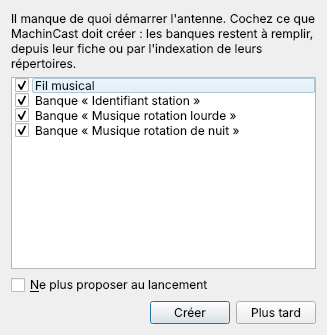
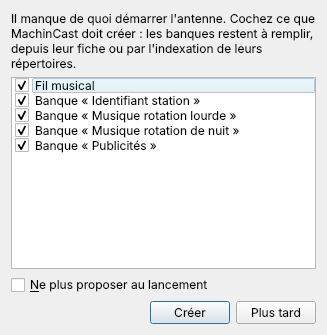
feat(interface): réglages des banques suggérées, et trois banques d'annonces
Les rotations lourde, normale et rare durent 15 minutes au plus,
« Identifiant station » 2 minutes. « Partenariats », « Publicités » et
« Bande-annonce émissions » s'ajoutent aux suggestions : 2 minutes au
plus, crossfades imposés à 0 seconde à leurs sonores.

https://github.com/dascritch/machincast/issues/231
Améliorations des éléments proposés à la création à la première ouverture

Claude-Session: https://claude.ai/code/session_01KaPegkCQoT3k3oMgjXGsiv

Changed region(s): [[0.0306, 0.4179, 0.4893, 0.4478]]

diff --git a/src/machincast/interface/suggestions.py b/src/machincast/interface/suggestions.py
@@ -6,15 +6,19 @@ majuscules) et, sur une vraie sortie, le périphérique de l'antenne. S'il manqu
 (FenetreSuggestions, par machincast.interface.dialogues.suggerer) le propose, chaque élément coché par défaut.
 
 - « Créer » (creer) crée ce qui est coché : le fil musical, permanent, comme le fil musical garanti
-  (machincast.interface.fil_musical) ; les banques, aléatoires et sans répertoire, « Identifiant station » marquée
-  « ne pas répéter ». Un fil musical encore vide, créé ou déjà là, reçoit la rotation type (ROTATION), avec les banques
-  qui existent. Le périphérique d'antenne choisi s'enregistre dans audio.peripherique (enregistrer).
+  (machincast.interface.fil_musical) ; les banques, aléatoires et sans répertoire, chacune avec ses réglages
+  (REGLAGES) : « Identifiant station » marquée « ne pas répéter », les musiques de 15 minutes au plus, l'habillage
+  et les annonces de 2 minutes au plus, ces dernières enchaînées sans crossfade, imposé à 0 seconde à leurs sonores
+  (https://github.com/dascritch/machincast/issues/231). Un fil musical encore vide, créé ou déjà là, reçoit la
+  rotation type (ROTATION), avec les banques qui existent. Le périphérique d'antenne choisi s'enregistre dans
+  audio.peripherique (enregistrer).
 - « Plus tard » ne crée rien : la fenêtre revient au lancement suivant.
 - « Ne plus proposer au lancement » écrit interface.suggestions = false dans le fichier de configuration
   (enregistrer), qui garde ses commentaires.
 """
 
 from dataclasses import dataclass
+from datetime import timedelta
 from pathlib import Path
 
 import psycopg
@@ -31,16 +35,34 @@ from machincast.interface.ui.suggestions import Ui_FenetreSuggestions
 
 FIL_MUSICAL = "Fil musical"
 """La ligne du fil musical dans la fenêtre."""
-BANQUES = (
-	"Identifiant station",
-	"Musique rotation lourde",
-	"Musique rotation normale",
-	"Musique rotation rare",
-	"Musique rotation de nuit",
-)
-"""Les banques suggérées, dans l'ordre où la fenêtre les propose."""
-NE_PAS_REPETER = frozenset({"Identifiant station"})
-"""Les banques créées marquées « ne pas répéter » (https://github.com/dascritch/machincast/issues/63)."""
+
+
+@dataclass(frozen=True)
+class Reglage:
+	"""Ce qu'une banque suggérée reçoit à sa création."""
+
+	ne_pas_repeter: bool = False
+	"""https://github.com/dascritch/machincast/issues/63"""
+	duree_max: timedelta | None = None
+	sans_crossfade: bool = False
+	"""Crossfades de début et de fin imposés à 0 seconde à tous ses sonores : ils s'enchaînent sans se mêler."""
+
+
+MUSIQUE = Reglage(duree_max=timedelta(minutes=15))
+ANNONCE = Reglage(duree_max=timedelta(minutes=2), sans_crossfade=True)
+REGLAGES = {
+	"Identifiant station": Reglage(ne_pas_repeter=True, duree_max=timedelta(minutes=2)),
+	"Musique rotation lourde": MUSIQUE,
+	"Musique rotation normale": MUSIQUE,
+	"Musique rotation rare": MUSIQUE,
+	"Musique rotation de nuit": Reglage(),
+	"Partenariats": ANNONCE,
+	"Publicités": ANNONCE,
+	"Bande-annonce émissions": ANNONCE,
+}
+"""Les banques suggérées, dans l'ordre où la fenêtre les propose, et leurs réglages
+(https://github.com/dascritch/machincast/issues/231)."""
+BANQUES = tuple(REGLAGES)
 ROTATION = (
 	"Identifiant station",
 	"Musique rotation lourde",
@@ -114,9 +136,15 @@ def creer(connexion: psycopg.Connection[TupleRow], reponse: Reponse) -> str | No
 				crees.append(f"le fil musical « {nom} »")
 		nouvelles = []
 		for banque in reponse.banques:
+			reglage = REGLAGES[banque]
+			regle = "sonore"
+			if reglage.sans_crossfade:
+				regle = "impose"
 			connexion.execute(
-				"INSERT INTO banques (nom_interne, mode, ne_pas_repeter) VALUES (%s, 'aleatoire', %s)",
-				(banque, banque in NE_PAS_REPETER),
+				"INSERT INTO banques (nom_interne, mode, ne_pas_repeter, duree_max, crossfade_debut_regle,"
+				" crossfade_debut, crossfade_fin_regle, crossfade_fin)"
+				" VALUES (%s, 'aleatoire', %s, %s, %s, '0 s', %s, '0 s')",
+				(banque, reglage.ne_pas_repeter, reglage.duree_max, regle, regle),
 			)
 			nouvelles.append(f"« {banque} »")
 		if len(nouvelles) == 1:

diff --git a/tests/test_suggestions.py b/tests/test_suggestions.py
@@ -6,6 +6,7 @@ s'ouvre ici, hors de l'écran du poste.
 
 import re
 from collections.abc import Iterator
+from datetime import timedelta
 
 import pytest
 import tomlkit
@@ -141,14 +142,45 @@ def fils(base_vide: Connexion, noms: str) -> None:
 	assert [str(nom) for (nom,) in lignes] == NOM.findall(noms)
 
 
+def _crossfade(regle: str, duree: timedelta) -> str:
+	if regle == "sonore":
+		return "des sonores"
+	return f"{REGLES[regle]}, {duree.total_seconds():g} s"
+
+
+REGLES = {"a_defaut": "à défaut", "impose": "imposé"}
+
+
 @then("les banques en base sont :")
 def banques_en_base(base_vide: Connexion, datatable: list[list[str]]) -> None:
 	_entete, *lignes = datatable
-	lues = base_vide.execute(
-		'SELECT nom_interne, mode::text, ne_pas_repeter FROM banques ORDER BY nom_interne COLLATE "C"'
-	).fetchall()
-	attendues = [(nom.strip(), mode.strip(), repeter.strip() == "oui") for nom, mode, repeter in lignes]
+	lues = []
+	for nom, mode, repeter, maximum, debut_regle, debut, fin_regle, fin in base_vide.execute(
+		"SELECT nom_interne, mode::text, ne_pas_repeter, duree_max, crossfade_debut_regle::text, crossfade_debut,"
+		' crossfade_fin_regle::text, crossfade_fin FROM banques ORDER BY nom_interne COLLATE "C"'
+	).fetchall():
+		repetition = "non"
+		if repeter:
+			repetition = "oui"
+		lues.append(
+			(
+				str(nom),
+				str(mode),
+				repetition,
+				str((maximum) or ("")),
+				_crossfade(str(debut_regle), debut),
+				_crossfade(str(fin_regle), fin),
+			)
+		)
+	attendues = [tuple(valeur.strip() for valeur in ligne) for ligne in lignes]
 	assert lues == attendues, lues
+
+
+@then(parsers.parse("la banque « {nom} » en base a pour durée maximale « {maximum} », sans durée minimale"))
+def duree_maximale(base_vide: Connexion, nom: str, maximum: str) -> None:
+	ligne = base_vide.execute("SELECT duree_min, duree_max FROM banques WHERE nom_interne = %s", (nom,)).fetchone()
+	assert ligne is not None
+	assert (ligne[0], str(ligne[1])) == (None, maximum)
 
 
 @then(parsers.parse("le fichier de configuration contient la ligne « {ligne} »"))

diff --git a/tests/captures.py b/tests/captures.py
@@ -650,9 +650,8 @@ def produire(repertoire: Path) -> dict[str, Path]:
 		frises = (fenetre.accueil.frise_en_cours, fenetre.accueil.frise_prochain)
 		attendre(lambda: all((frise.forme is not None) and (frise.forme.finie) for frise in frises))
 		prendre("accueil", fenetre)
-		suggestions = FenetreSuggestions(
-			Manques(True, ("Identifiant station", "Musique rotation lourde", "Musique rotation de nuit")), fenetre
-		)
+		manques = ("Identifiant station", "Musique rotation lourde", "Musique rotation de nuit", "Publicités")
+		suggestions = FenetreSuggestions(Manques(True, manques), fenetre)
 		suggestions.show()
 		prendre("pour-bien-demarrer", suggestions)
 		suggestions.close()

diff --git a/doc/spec.md b/doc/spec.md
@@ -790,9 +790,9 @@ Mise en œuvre ([#39](https://github.com/dascritch/machincast/issues/39), `machi
 
 Suggestions au lancement ([#119](https://github.com/dascritch/machincast/issues/119), `machincast.interface.suggestions`, `FenetrePrincipale.proposer_au_lancement`, appelé par `Machin_interface` une fois la fenêtre montrée) :
 
-- **Quand** : au lancement, si `interface.suggestions` est vrai (par défaut) et qu'il manque un événement de priorité fil musical, l'une des banques « Identifiant station », « Musique rotation lourde », « Musique rotation normale », « Musique rotation rare », « Musique rotation de nuit » (nom interne, sans tenir compte des majuscules), ou, sur une sortie autre que `factice`, le périphérique de l'antenne (`audio.peripherique`). Elles remplacent alors la création automatique du fil musical au lancement, qui reste quand elles sont éteintes ; la garantie après la suppression ou l'enregistrement d'un événement ne change pas.
+- **Quand** : au lancement, si `interface.suggestions` est vrai (par défaut) et qu'il manque un événement de priorité fil musical, l'une des banques « Identifiant station », « Musique rotation lourde », « Musique rotation normale », « Musique rotation rare », « Musique rotation de nuit », « Partenariats », « Publicités », « Bande-annonce émissions » (nom interne, sans tenir compte des majuscules), ou, sur une sortie autre que `factice`, le périphérique de l'antenne (`audio.peripherique`). Elles remplacent alors la création automatique du fil musical au lancement, qui reste quand elles sont éteintes ; la garantie après la suppression ou l'enregistrement d'un événement ne change pas.
 - **Fenêtre** : « Pour bien démarrer », modale (`dialogues.suggerer`) ; une ligne cochée par élément manquant ; le choix de l'antenne parmi les périphériques du poste de la sortie configurée, sauf celui de la pré-écoute ; « Ne plus proposer au lancement » ; « Créer » ou « Plus tard ».
-- **Créer** : le fil musical comme ci-dessus ; les banques, aléatoires, sans répertoire, « Identifiant station » marquée « ne pas répéter » ; puis le premier fil musical sans élément, par nom, reçoit la rotation « Identifiant station », « Musique rotation lourde », « Musique rotation normale », « Musique rotation lourde », « Musique rotation rare », avec les banques qui existent. La barre d'état dit ce qui est créé.
+- **Créer** : le fil musical comme ci-dessus ; les banques, aléatoires, sans répertoire, chacune avec ses réglages (`suggestions.REGLAGES`, [#231](https://github.com/dascritch/machincast/issues/231)) : « Identifiant station » marquée « ne pas répéter », de 2 minutes au plus ; les trois rotations lourde, normale et rare, de 15 minutes au plus ; la rotation de nuit, sans durée ; « Partenariats », « Publicités » et « Bande-annonce émissions », de 2 minutes au plus, avec des crossfades de début et de fin imposés à 0 seconde à tous leurs sonores ; puis le premier fil musical sans élément, par nom, reçoit la rotation « Identifiant station », « Musique rotation lourde », « Musique rotation normale », « Musique rotation lourde », « Musique rotation rare », avec les banques qui existent. La barre d'état dit ce qui est créé.
 - **Configuration** : l'antenne choisie et `interface.suggestions = false` s'écrivent par tomlkit, qui garde les commentaires du fichier ; sans fichier de configuration, rien ne s'écrit. Machin lecture prend l'antenne à son prochain démarrage.
 
 ### 8.11 Menu

diff --git a/doc/utilisateur/prise-en-main.md b/doc/utilisateur/prise-en-main.md
@@ -39,14 +39,14 @@
 Au lancement, l'interface cherche ce qui manque pour que l'antenne puisse tourner :
 
 - un **fil musical**, l'événement qui tient l'antenne quand aucun autre ne la prend ;
-- les banques **Identifiant station**, **Musique rotation lourde**, **Musique rotation normale**, **Musique rotation rare** et **Musique rotation de nuit**, reconnues à leur nom, sans tenir compte des majuscules ;
+- les banques **Identifiant station**, **Musique rotation lourde**, **Musique rotation normale**, **Musique rotation rare**, **Musique rotation de nuit**, **Partenariats**, **Publicités** et **Bande-annonce émissions**, reconnues à leur nom, sans tenir compte des majuscules ;
 - sur une vraie sortie audio, le **périphérique de l'antenne**, sans lequel la diffusion ne démarre pas.
 
 ![La fenêtre « Pour bien démarrer », qui propose de créer le fil musical et les banques qui manquent](../captures/pour-bien-demarrer.png)
 
 S'il en manque, la fenêtre **Pour bien démarrer** les propose, chacun coché :
 
-- **Créer** crée ce qui est coché. Le fil musical est permanent. Les banques sont aléatoires et vides : elles se remplissent depuis leur [fiche](sonores.md#fiche-dune-banque), ou par l'indexation de leurs répertoires. « Identifiant station » est marquée « ne pas répéter ». Un fil musical encore vide reçoit une rotation type : Identifiant station, rotation lourde, normale, lourde, rare. La rotation de nuit reste à placer dans un événement de nuit. La barre d'état dit ce qui a été créé.
+- **Créer** crée ce qui est coché. Le fil musical est permanent. Les banques sont aléatoires et vides : elles se remplissent depuis leur [fiche](sonores.md#fiche-dune-banque), ou par l'indexation de leurs répertoires. « Identifiant station » est marquée « ne pas répéter ». Chacune a sa [durée maximale des sonores](sonores.md#fiche-dune-banque) : 15 minutes pour les rotations lourde, normale et rare, 2 minutes pour l'identifiant station, les partenariats, les publicités et les bandes-annonces ; ces trois dernières s'enchaînent sans crossfade, imposé à 0 seconde à leurs sonores ; la rotation de nuit n'en a pas. Tout cela se change dans leur fiche. Un fil musical encore vide reçoit une rotation type : Identifiant station, rotation lourde, normale, lourde, rare. La rotation de nuit reste à placer dans un événement de nuit. La barre d'état dit ce qui a été créé.
 - Le **périphérique de l'antenne** se choisit parmi ceux du poste, sauf celui de la pré-écoute. La diffusion le prend à son prochain démarrage (**Diffusion → Arrêter la diffusion**, puis **Démarrer la diffusion**).
 - **Plus tard** ne crée rien : la fenêtre revient au lancement suivant.
 - **Ne plus proposer au lancement** éteint la fenêtre ; elle se rallume dans les [préférences](#préférences). Sans elle, l'interface recrée au lancement un fil musical vide s'il n'en existe aucun, et le dit dans la barre d'état.
